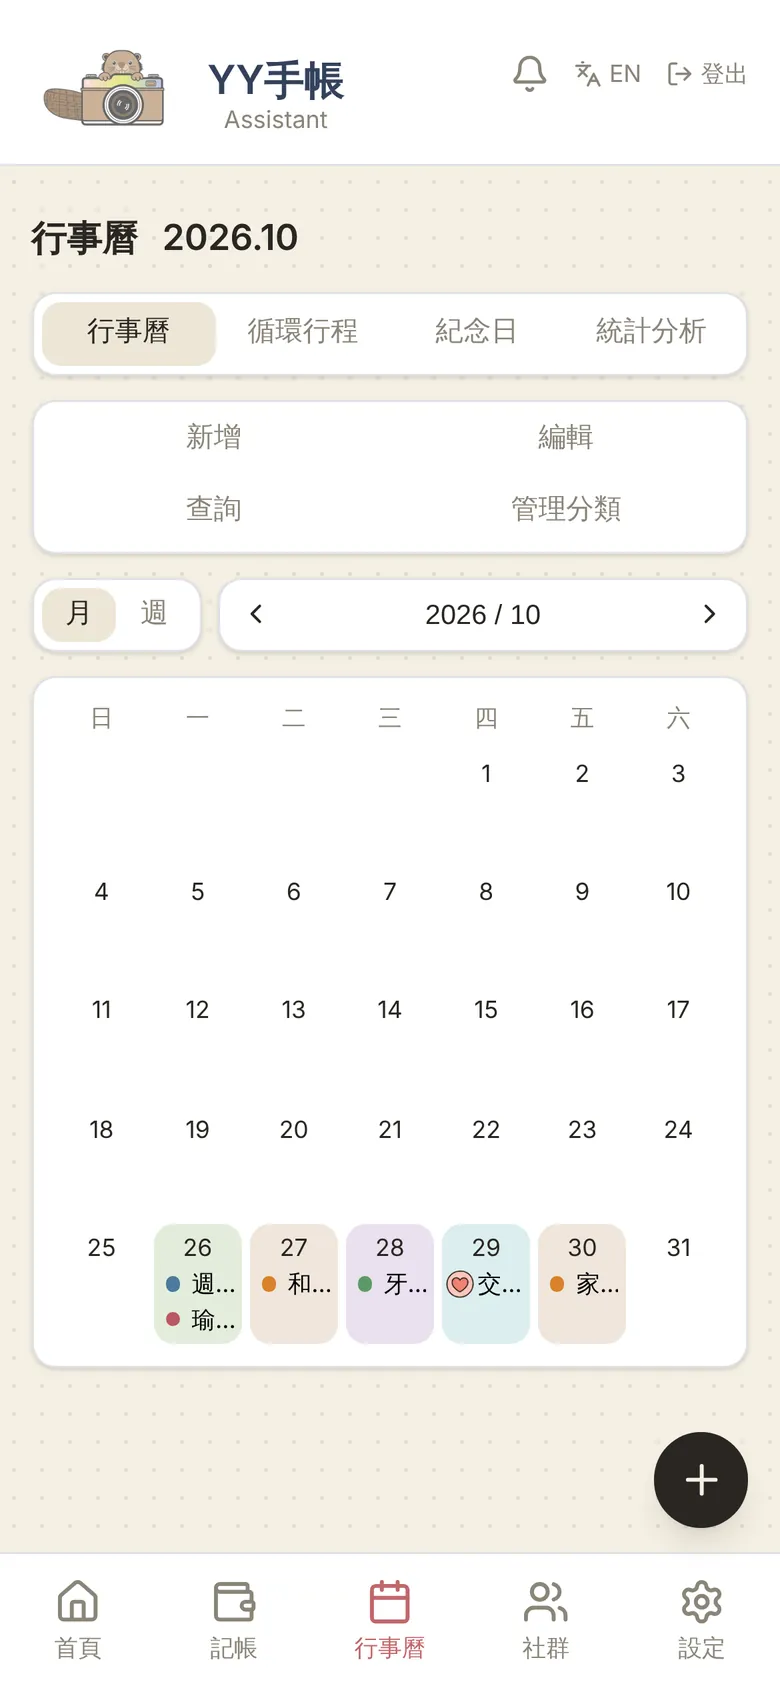
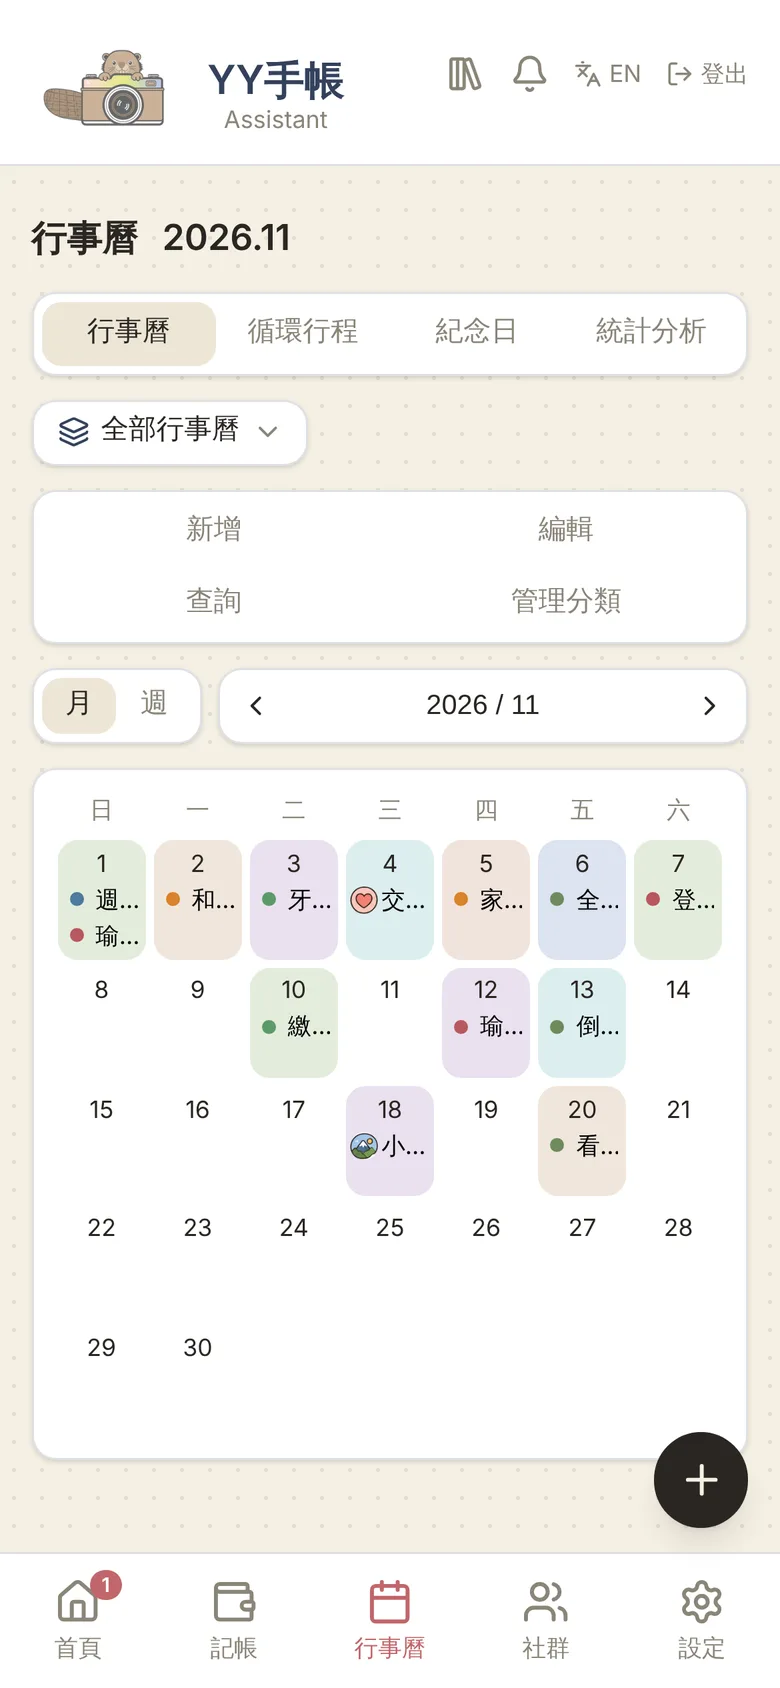
batch89: 介紹網站加上共用行事曆、月刊書櫃

diff --git a/frontend/src/pages/Landing.jsx b/frontend/src/pages/Landing.jsx
@@ -14,7 +14,7 @@ const COPY = {
     langSwitch: 'EN',
     docTitle: 'YY手帳 Assistant｜把每天的小事，好好收進手帳',
     heroTitle: ['把每天的小事，', '好好收進手帳'],
-    heroText: '記帳、行事曆、紀念日和隨手記事，放在同一本手帳裡。還能和家人朋友共用帳本、一起排行程、互傳小紙條。註冊後三個月免費使用全部功能，不需要信用卡。',
+    heroText: '記帳、行事曆、紀念日和隨手記事，放在同一本手帳裡。還能和家人朋友共用帳本和行事曆、互傳小紙條，每個月再整理成一本專屬的書。註冊後三個月免費使用全部功能，不需要信用卡。',
     cta: '免費開始使用',
     ctaFull: '測試名額已滿',
     betaLine: (limit, remaining) => `目前開放 ${limit} 位測試者，還有 ${remaining} 個名額`,
@@ -28,10 +28,12 @@ const COPY = {
       ['👥', '共同帳本', '旅遊、家用一起記'],
       ['📅', '行事曆', '月／週檢視、提醒'],
       ['🤝', '共同行程', '約好的事一起看'],
+      ['🗓', '共用行事曆', '家人朋友一起排'],
       ['🎂', '紀念日', '生日、紀念日不錯過'],
       ['✍', '墨箋絮語', '想到什麼先記下'],
       ['📝', '小紙條', '傳一句話給在乎的人'],
       ['🌦', '社群', '聊心情、交流理財'],
+      ['📚', '月刊書櫃', '每月一本專屬的書'],
     ],
     sections: [
       {
@@ -42,8 +44,8 @@ const COPY = {
       },
       {
         key: 'calendar', tag: '行事曆與紀念日', title: '日子排好，重要的日子也記得',
-        text: '月檢視看整個月，週檢視排細節；每週的課、每月的繳費日設成循環行程。和朋友約好的事，邀請對方變成共同行程。生日和紀念日選個小圖示，每年自動提醒，還能算出第幾週年、幾歲；好友生日也會提醒你。',
-        points: ['共同行程', '循環行程', '紀念日圖示', '週年與年紀', '好友生日提醒'],
+        text: '月檢視看整個月，週檢視排細節；每週的課、每月的繳費日設成循環行程。和朋友約好的事，邀請對方變成共同行程；全家的事，開一本共用行事曆，大家都能新增、修改，可以疊在一起看，也可以分開切換。生日和紀念日選個小圖示，每年自動提醒，還能算出第幾週年、幾歲；好友生日也會提醒你。',
+        points: ['共用行事曆', '共同行程', '循環行程', '紀念日圖示', '週年與年紀', '好友生日提醒'],
         shots: ['calendar', 'anniv'],
       },
       {
@@ -57,6 +59,12 @@ const COPY = {
         text: '「晴空與雨天」聊心情、「養豬小能手」交流理財、「小編許願池」告訴我們想要的新功能。可以匿名、具名，或只給好友看；不想給某些好友看到，發文時選擇隱藏就好。用好友碼加好友，點進好友就能看他分享的文章。',
         points: ['匿名或暱稱', '僅好友可見', '隱藏好友', '好友碼與 QR Code', '使用規則與檢舉'],
         shots: ['community', 'friends'],
+      },
+      {
+        key: 'bookshelf', tag: '月刊書櫃', title: '每個月，一本只屬於你的書',
+        text: '每個月 1 號，小河狸會把上個月的記帳、行程、紀念日、心情、墨箋絮語和你發的文章，整理成一本書放上書櫃。7 號以前挑一張喜歡的封面、寫一句想對這個月說的話，就完成了；也可以下載成 PDF 好好收著。',
+        points: ['每月自動整理', '挑封面', '心情月曆', '海狸的話', '下載 PDF', '三款書櫃'],
+        shots: ['bookshelf', 'book'],
       },
     ],
     themesTitle: '換一種心情的手帳',
@@ -72,7 +80,7 @@ const COPY = {
       ['進階 A／B／C＋社群', '上述任一方案加購社群'],
       ['完整版', '全部功能，包含社群'],
     ],
-    plansNote: '多帳本、共同帳本、共同行程、紀念日、好友與小紙條，目前所有方案都能使用。',
+    plansNote: '多帳本、共同帳本、共同行程、共用行事曆、紀念日、好友、小紙條與月刊書櫃，目前所有方案都能使用。',
     free: '免費',
     perMonth: (m) => `${m} 元／月`,
     perYear: (y) => `年繳 ${y.toLocaleString()} 元`,
@@ -91,7 +99,7 @@ const COPY = {
     langSwitch: '中文',
     docTitle: 'YY Assistant | Every little thing, neatly in one notebook',
     heroTitle: ['Every little thing,', 'neatly in one notebook'],
-    heroText: 'Budget, calendar, anniversaries and quick notes, all in one notebook. Share ledgers with family and friends, plan events together, and send little notes. Every feature is free for your first three months. No credit card needed.',
+    heroText: 'Budget, calendar, anniversaries and quick notes, all in one notebook. Share ledgers and calendars with family and friends, send little notes, and get your month bound into a book of your own. Every feature is free for your first three months. No credit card needed.',
     cta: 'Start free',
     ctaFull: 'Beta is full',
     betaLine: (limit, remaining) => `Open to ${limit} beta testers, ${remaining} spots left`,
@@ -105,10 +113,12 @@ const COPY = {
       ['👥', 'Shared ledgers', 'Trips and home, together'],
       ['📅', 'Calendar', 'Month and week views'],
       ['🤝', 'Shared events', 'Plans you both can see'],
+      ['🗓', 'Shared calendars', 'Plan as a family'],
       ['🎂', 'Anniversaries', 'Never miss a birthday'],
       ['✍', 'Ink Notes', 'Jot it down first'],
       ['📝', 'Little notes', 'A line for someone you care about'],
       ['🌦', 'Community', 'Feelings and money tips'],
+      ['📚', 'Monthly bookshelf', 'A book of your month'],
     ],
     sections: [
       {
@@ -119,8 +129,8 @@ const COPY = {
       },
       {
         key: 'calendar', tag: 'Calendar & anniversaries', title: 'Plan your days, remember the big ones',
-        text: 'See the whole month or plan week by week, and make weekly classes or monthly bills recurring. Invite friends to turn plans into shared events. Give birthdays and anniversaries a little icon for yearly reminders, with years and ages counted for you. Friends’ birthdays are reminded too.',
-        points: ['Shared events', 'Recurring events', 'Anniversary icons', 'Years and ages', 'Friend birthdays'],
+        text: 'See the whole month or plan week by week, and make weekly classes or monthly bills recurring. Invite friends to turn plans into shared events, or open a shared calendar for the family where everyone can add and edit, shown together or one at a time. Give birthdays and anniversaries a little icon for yearly reminders, with years and ages counted for you. Friends’ birthdays are reminded too.',
+        points: ['Shared calendars', 'Shared events', 'Recurring events', 'Anniversary icons', 'Years and ages', 'Friend birthdays'],
         shots: ['calendar', 'anniv'],
       },
       {
@@ -134,6 +144,12 @@ const COPY = {
         text: 'Share how your day went, swap money tips, and tell us which features you want next. Post anonymously, with your nickname, or for friends only, and hide a post from certain friends when you need to. Add friends with a friend code and tap a friend to see what they share.',
         points: ['Anonymous or nickname', 'Friends only', 'Hide from friends', 'Friend code and QR', 'Rules and reporting'],
         shots: ['community', 'friends'],
+      },
+      {
+        key: 'bookshelf', tag: 'Monthly bookshelf', title: 'Every month, a book that’s yours alone',
+        text: 'On the 1st of each month, Beaver gathers last month’s spending, plans, anniversaries, moods, Ink Notes and your posts into a book on your shelf. Pick a cover and write a line to the month before the 7th, and it’s done. You can download it as a PDF to keep.',
+        points: ['Made for you monthly', 'Pick a cover', 'Mood calendar', 'Words from Beaver', 'PDF download', 'Three shelves'],
+        shots: ['bookshelf', 'book'],
       },
     ],
     themesTitle: 'A notebook for every mood',
@@ -149,7 +165,7 @@ const COPY = {
       ['Plus A / B / C + Community', 'Any of the above plus community'],
       ['Complete', 'Everything, including community'],
     ],
-    plansNote: 'Multiple and shared ledgers, shared events, anniversaries, friends and little notes are included in every plan for now.',
+    plansNote: 'Multiple and shared ledgers, shared events and calendars, anniversaries, friends, little notes and the monthly bookshelf are included in every plan for now.',
     free: 'Free',
     perMonth: (m) => `NT$${m} / month`,
     perYear: (y) => `NT$${y.toLocaleString()} / year`,
@@ -165,7 +181,7 @@ const COPY = {
   },
 };
 
-const SECTION_COLOR = { ledger: 'var(--expense)', calendar: 'var(--ink)', home: '#B8901F', community: 'var(--income)' };
+const SECTION_COLOR = { ledger: 'var(--expense)', calendar: 'var(--ink)', home: '#B8901F', community: 'var(--income)', bookshelf: '#8A6A54' };
 const THEMES = ['default', 'grey', 'morandi', 'sport'];
 const PRICES = [[null, null], [69, 728], [69, 728], [69, 728], [79, 848], [109, 1208]];
 
@@ -259,7 +275,7 @@ export default function Landing() {
         <section id="overview" className="landing-band scroll-mt-16">
           <div className="mx-auto max-w-6xl px-5 py-12 md:px-8 md:py-16">
             <h2 className="landing-serif text-center text-[24px] md:text-[30px]" style={{ color: 'var(--ink)' }}>{T.overviewTitle}</h2>
-            <ul className="mt-8 grid grid-cols-2 gap-3 md:grid-cols-4 md:gap-4">
+            <ul className="mt-8 grid grid-cols-2 gap-3 md:grid-cols-5 md:gap-4">
               {T.overview.map(([emoji, name, desc]) => (
                 <li key={name} className="landing-card rounded-2xl p-4">
                   <span className="text-2xl leading-none">{emoji}</span>
